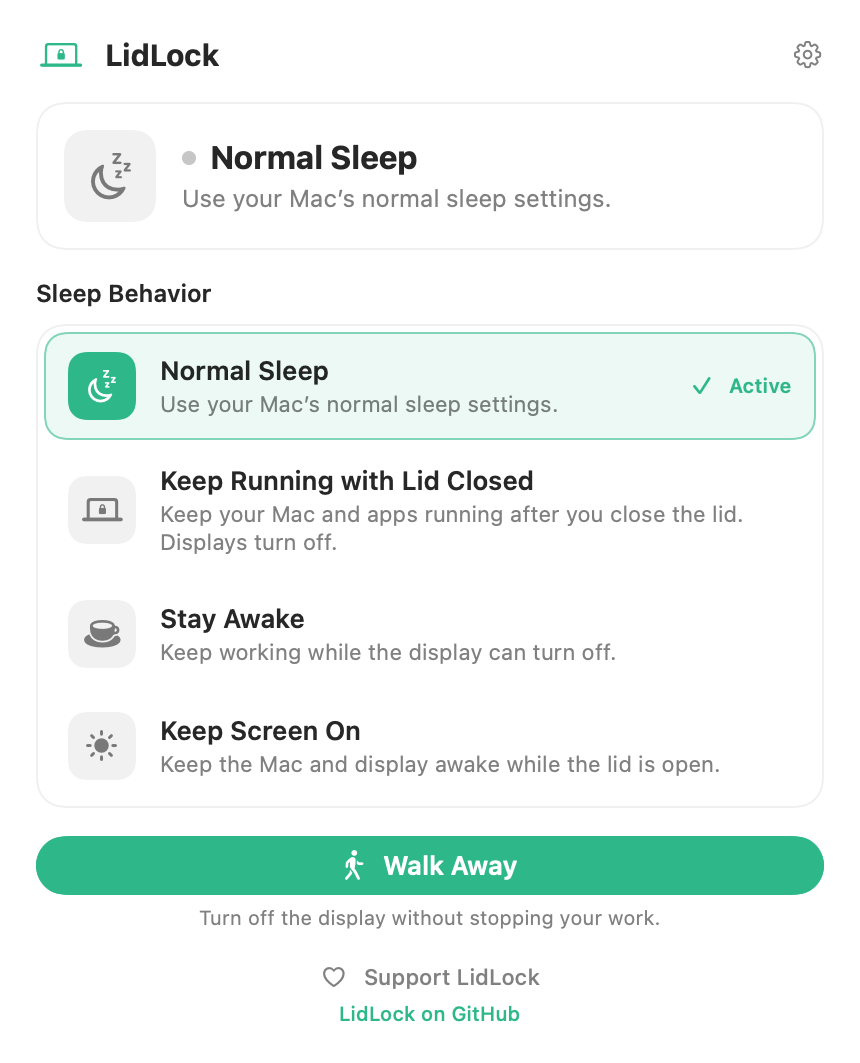
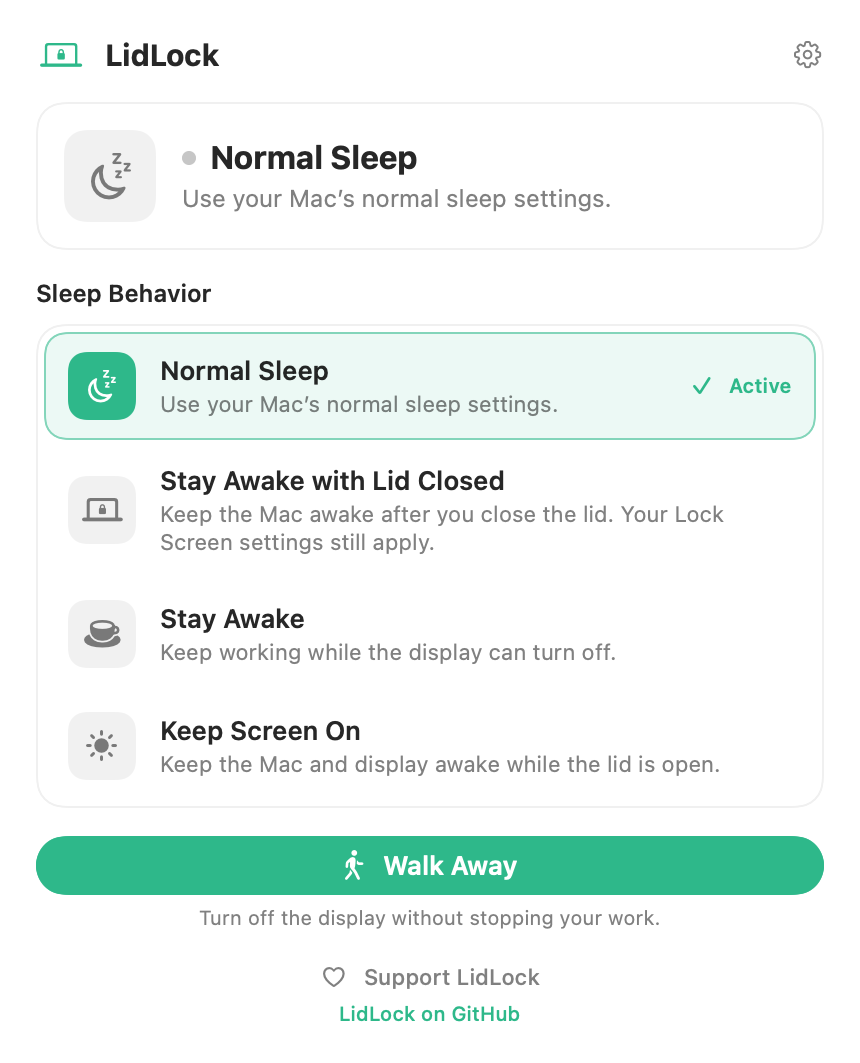
Publish LidLock 1.2.1 (#3)

Changed region(s): [[0.1814, 0.4346, 0.8465, 0.5278]]

diff --git a/GETTING_STARTED.md b/GETTING_STARTED.md
@@ -4,7 +4,7 @@ LidLock is a macOS menu bar utility for controlling when your Mac and display
 sleep. It is free to use, requires no account, and does not collect personal
 information.
 
-The current public download is version 1.2.0.
+The current public download is version 1.2.1.
 
 ## Install LidLock
 
@@ -19,8 +19,8 @@ The rest of the app can run without that helper.
 ## First Launch
 
 On first launch, LidLock explains each sleep option and Walk Away. It also shows
-where to find LidLock after you close its window. The guide explains why Keep
-Running with Lid Closed needs an administrator password.
+where to find LidLock after you close its window. The guide explains why Stay
+Awake with Lid Closed needs an administrator password.
 
 You can reopen this guide anytime from **Settings**, then **Getting Started**.
 
@@ -29,7 +29,7 @@ You can reopen this guide anytime from **Settings**, then **Getting Started**.
 | Mode | What happens |
 |---|---|
 | **Normal Sleep** | Uses your Mac's normal sleep settings. |
-| **Keep Running with Lid Closed** | Keeps your Mac and apps running after you close the lid. Displays turn off. |
+| **Stay Awake with Lid Closed** | Keeps the Mac awake after you close the lid. Your Lock Screen settings still apply. |
 | **Stay Awake** | Keeps your work running while the display can turn off. |
 | **Keep Screen On** | Keeps the Mac and display awake while the lid is open. |
 
@@ -39,31 +39,41 @@ previous sleep setting remains selected when the display wakes.
 Closing the LidLock window does not quit the app. LidLock stays available in the
 macOS menu bar until you choose **Quit LidLock**.
 
+### Stay Awake with Lid Closed
+
+When you choose **Stay Awake with Lid Closed**, LidLock reads the lid-close
+sleep setting back before it shows **Active**. While the mode is active, LidLock
+holds a stronger system sleep assertion to help keep the Mac awake.
+
+In version 1.2.1, the mode no longer issues a display sleep command when the lid
+closes. This removes LidLock's direct Lock Screen trigger. Your macOS Lock Screen
+settings still apply.
+
 ## Permissions and Approvals
 
 | Feature | What macOS may request | Why |
 |---|---|---|
 | Normal Sleep, Stay Awake, Keep Screen On, and Walk Away | Nothing | They work as soon as LidLock opens. |
-| Keep Running with Lid Closed | Administrator password | macOS protects changes to how the Mac sleeps with its lid shut. |
+| Stay Awake with Lid Closed | Administrator password | macOS protects changes to how the Mac sleeps with its lid shut. |
 | Password-free lid control | Optional helper approval | The signed helper can change only the lid sleep setting. |
 | Open at login | Optional approval under Login Items | macOS lets you decide which apps open when you sign in. |
 
 LidLock does not request access to your files, screen contents, camera,
 microphone, location, contacts, or Accessibility controls.
 
-### Why Keep Running with Lid Closed Needs Administrator Approval
+### Why Stay Awake with Lid Closed Needs Administrator Approval
 
-Keep Running with Lid Closed changes how the entire Mac sleeps when you close
-its lid. macOS asks for an administrator password when that setting changes.
+Stay Awake with Lid Closed changes how the Mac sleeps when you close its lid.
+macOS asks for an administrator password when that setting changes.
 
 Before the password prompt appears, LidLock explains what will change. The Mac
-will continue using power while you keep the lid closed. This does not give
+can stay awake while you keep the lid closed. This does not give
 LidLock access to your files, screen, or other apps.
 
 ### Optional Password-free Helper
 
 Without the helper, macOS may ask for an administrator password when you turn
-Keep Running with Lid Closed on or off. If you prefer fewer prompts, open
+Stay Awake with Lid Closed on or off. If you prefer fewer prompts, open
 **Settings** and enable **Use password-free lid control**.
 
 The helper is optional. DelPage Technologies signs it, and it changes only the

diff --git a/README.md b/README.md
@@ -7,8 +7,8 @@ Keep your Mac working, even with the lid closed.
 [![Download](https://img.shields.io/badge/Download-LidLock.dmg-2563eb?labelColor=0f172a)](https://github.com/DelPage/lidlock/releases/latest/download/LidLock.dmg)
 [![Support LidLock](https://img.shields.io/badge/Support-LidLock-2FBC91?labelColor=0f172a)](SUPPORT.md)
 
-LidLock keeps Claude Code, Codex, local servers, downloads, automations, and long builds running
-when your Mac would otherwise sleep. No Terminal commands required.
+LidLock helps keep your Mac awake for local servers, downloads, automations, and long builds.
+What continues can depend on the app and macOS behavior. No Terminal commands required.
 
 LidLock is free software published by DelPage Technologies.
 
@@ -23,15 +23,15 @@ LidLock is free software published by DelPage Technologies.
 ## Free Download
 
 - [Download LidLock.dmg](https://github.com/DelPage/lidlock/releases/latest/download/LidLock.dmg)
-- Current version: **1.2.0**
[1 lines of base64/hex data omitted]
+- Current version: **1.2.1**
[1 lines of base64/hex data omitted]
 
 LidLock requires **macOS 13 Ventura or newer**. Apple signs the distributed app
 with Developer ID and notarizes it.
 
 ## Getting Started
 
-Version 1.2.0 includes a short first launch guide to the sleep controls, Walk
+Version 1.2.1 includes a short first launch guide to the sleep controls, Walk
 Away, the menu bar, and administrator approval. You can reopen it anytime from
 **Settings**, then **Getting Started**.
 
@@ -40,19 +40,24 @@ Away, the menu bar, and administrator approval. You can reopen it anytime from
 ## What It Does
 
 - **Normal Sleep** uses your Mac's normal sleep settings.
-- **Keep Running with Lid Closed** keeps your Mac and apps running after you close the lid. Displays turn off.
+- **Stay Awake with Lid Closed** keeps the Mac awake after you close the lid. Your Lock Screen settings still apply.
 - **Stay Awake** keeps your work running while the display can turn off.
 - **Keep Screen On** keeps the Mac and display awake while the lid is open.
 - **Walk Away** turns the display off without stopping your work.
 - Closing the window keeps LidLock available in the menu bar; reopen it from
   **Open LidLock** or quit it explicitly from the same menu.
+- In version 1.2.1, the lid-closed mode no longer issues a display sleep command
+  when the lid closes. This removes LidLock's direct Lock Screen trigger. LidLock
+  reads the lid-close setting back before showing **Active**, then holds a
+  stronger system sleep assertion while active. macOS Lock Screen settings still
+  apply.
 
 ## Permissions at a Glance
 
 | Feature | Approval | Why |
 |---|---|---|
 | Normal Sleep, Stay Awake, Keep Screen On, and Walk Away | None | They work as soon as LidLock opens. |
-| Keep Running with Lid Closed | Administrator password | macOS protects changes to how the Mac sleeps with its lid shut. |
+| Stay Awake with Lid Closed | Administrator password | macOS protects changes to how the Mac sleeps with its lid shut. |
 | Password-free lid control | Optional helper approval | A signed helper can change only the lid sleep setting. |
 | Open at login | Optional Login Items approval | macOS lets you choose which apps open when you sign in. |
 

diff --git a/release-notes/v1.2.1.md b/release-notes/v1.2.1.md
@@ -1,0 +1,67 @@
+# LidLock 1.2.1
+
+LidLock now keeps the lid-closed mode focused on staying awake while macOS
+continues to manage Lock Screen behavior.
+
+## Download
+
+Apple signs the attached `LidLock.dmg` with Developer ID and notarizes it.
+Gatekeeper validates both the app and disk image.
+
+SHA-256:
+
+```text
+3c760d3c33c738e73f24442422a9aed4bd8201aefdd6800afbf26bc24f642bc2  LidLock.dmg
+```
+
+## What Changed
+
+- Renamed the lid-closed mode to **Stay Awake with Lid Closed**.
+- The mode no longer issues a display sleep command when the lid closes. This
+  removes LidLock's direct Lock Screen trigger. macOS Lock Screen settings still
+  apply.
+- LidLock reads the lid-close sleep setting back before showing **Active** and
+  holds a stronger system sleep assertion while the mode is active.
+
+## Stay Awake with Lid Closed
+
+1. Install LidLock in the Applications folder.
+2. Open LidLock and choose **Stay Awake with Lid Closed**.
+3. Approve the macOS administrator request.
+4. Close the lid.
+
+Your Mac can stay awake with its lid closed. Your Lock Screen settings
+still apply. Choose **Normal Sleep** when you want the usual macOS sleep
+behavior again.
+
+If you prefer fewer password prompts, Settings can install an optional signed
+helper that changes only the lid sleep setting.
+
+## Replacing Older Copies
+
+Before installing this version, choose **Normal Sleep**, turn off the optional
+helper and Open at login, quit LidLock, and remove older copies. Install the new
+copy in the main Applications folder.
+
+The [Getting Started guide](https://github.com/DelPage/lidlock/blob/main/GETTING_STARTED.md#replace-older-copies)
+has the complete cleanup steps.
+
+## Requirements
+
+- macOS 13 Ventura or newer.
+- A MacBook for the lid-closed mode. Other Macs can still use the awake and
+  display controls.
+
+## Privacy
+
+LidLock has no accounts, analytics, telemetry, or advertising. It does not
+contact any server while you use it. The optional helper stays on your Mac and
+changes only the lid sleep setting.
+
+Privacy policy: https://github.com/DelPage/lidlock/blob/main/PRIVACY.md
+
+## Support
+
+Use GitHub Issues for bug reports and compatibility notes:
+
+https://github.com/DelPage/lidlock/issues

diff --git a/PRIVACY.md b/PRIVACY.md
@@ -20,10 +20,14 @@ LidLock keeps your activity private. **It collects nothing.**
 LidLock changes local macOS power settings. Normal Sleep, Stay Awake, Keep
 Screen On, and Walk Away do not require special access.
 
-Keep Running with Lid Closed requires administrator approval because it changes
-a system wide lid sleep setting. Before macOS requests approval, LidLock explains
-what will change and why. This approval does not give LidLock access to personal
-information or other apps.
+Stay Awake with Lid Closed requires administrator approval because it changes a
+system-wide lid-close sleep setting. LidLock reads that setting back before it
+shows **Active**, then holds a stronger system sleep assertion while the mode is
+active. In version 1.2.1, the mode no longer issues a display sleep command when
+the lid closes. This removes LidLock's direct Lock Screen trigger. macOS Lock
+Screen settings still apply. Before macOS requests approval,
+LidLock explains what will change and why. This approval does not give LidLock
+access to personal information or other apps.
 
 The optional password-free lid control helper changes only the lid sleep setting
 and accepts requests only from the signed LidLock app. Turn it off in LidLock

diff --git a/CHANGELOG.md b/CHANGELOG.md
@@ -2,6 +2,20 @@
 
 This changelog lists every notable public LidLock release.
 
+## 1.2.1 - 2026-08-20
+
+- Renamed the lid-closed mode to **Stay Awake with Lid Closed**.
+- The mode no longer issues a display sleep command when the lid closes. This
+  removes LidLock's direct Lock Screen trigger. macOS Lock Screen settings still
+  apply.
+- LidLock reads the lid-close sleep setting back before showing **Active** and
+  holds a stronger system sleep assertion while the mode is active.
+
+Artifact:
+
+- `LidLock.dmg`
[1 lines of base64/hex data omitted]
+
 ## 1.2.0 - 2026-08-20
 
 - Replaced separate power switches with four clear sleep modes.
